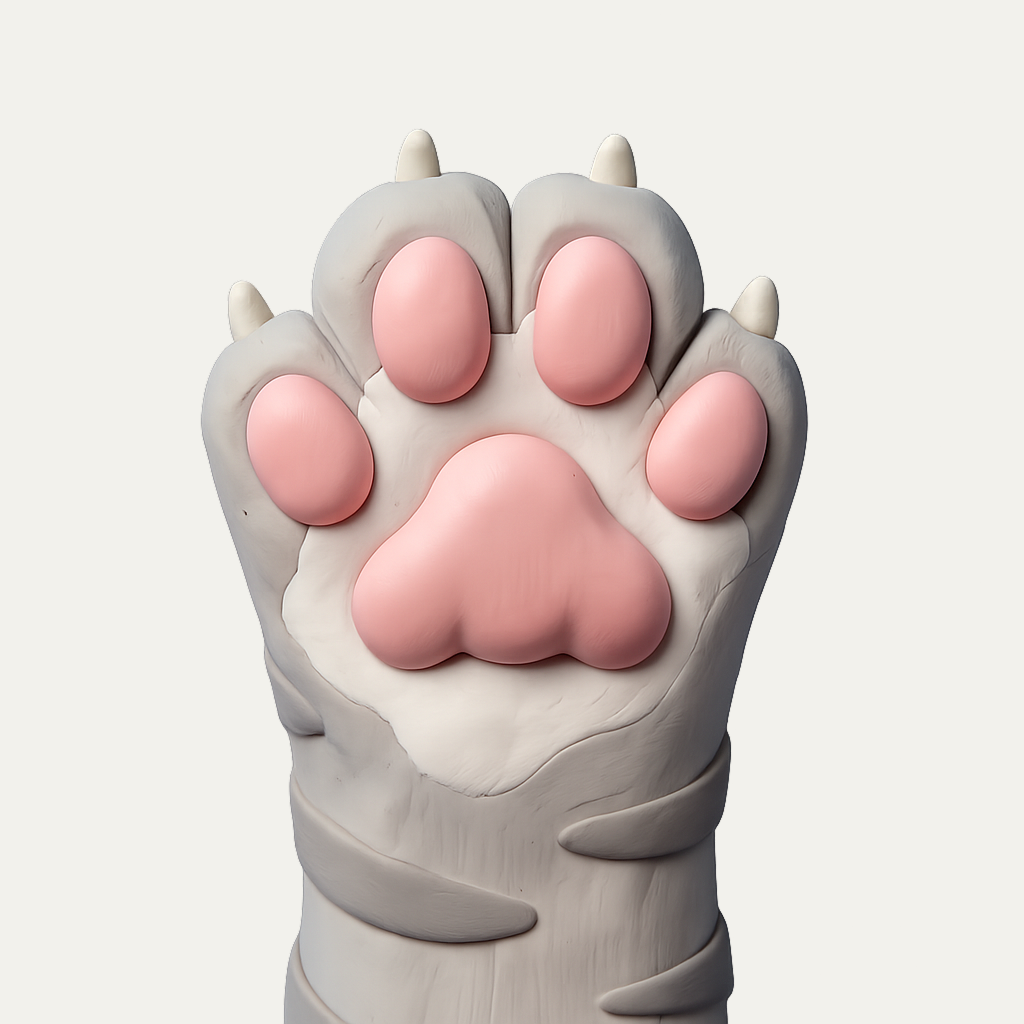
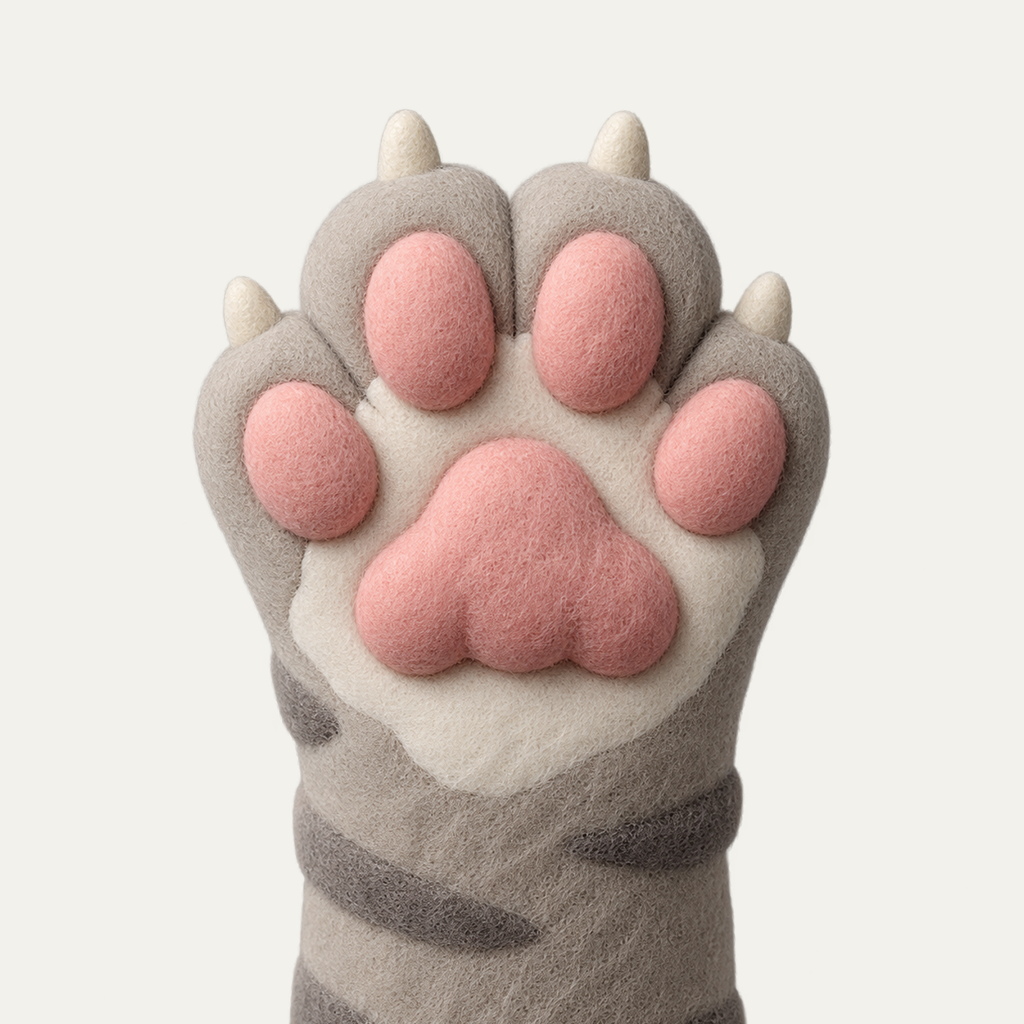
Update app artwork; opening/sign-in cat uses WebP
- New artwork for the app icons, Android adaptive/monochrome icons,
  favicon, bowls, empty state, intro and splash images.
- The opening, sign-in and sign-up screens now load the cat from
  splash-light.webp / splash-dark.webp.
- splash-light.png / splash-dark.png are kept, as lossless PNG copies of
  the same new art, for the native launch splash in app.json: the
  expo-splash-screen build step can't read WebP ("Unsupported MIME type:
  image/webp").

Changed region(s): [[0.1875, 0.0938, 0.8125, 1.0]]

diff --git a/components/auth/AuthScreenLayout.tsx b/components/auth/AuthScreenLayout.tsx
@@ -17,8 +17,10 @@ import { useTheme } from '@/contexts/ThemeContext';
 import { radius, space } from '@/lib/design';
 import { CONTENT_MAX_WIDTH } from '@/lib/slideTransition';
 
-const catLightImage = require('../../assets/images/splash-light.png') as ImageSourcePropType;
-const catDarkImage = require('../../assets/images/splash-dark.png') as ImageSourcePropType;
+// The native launch splash (app.json) uses PNG copies of this art, because
+// the splash build step can't read WebP.
+const catLightImage = require('../../assets/images/splash-light.webp') as ImageSourcePropType;
+const catDarkImage = require('../../assets/images/splash-dark.webp') as ImageSourcePropType;
 
 const CAT_WIDTH_SCALE = 0.8;
 
